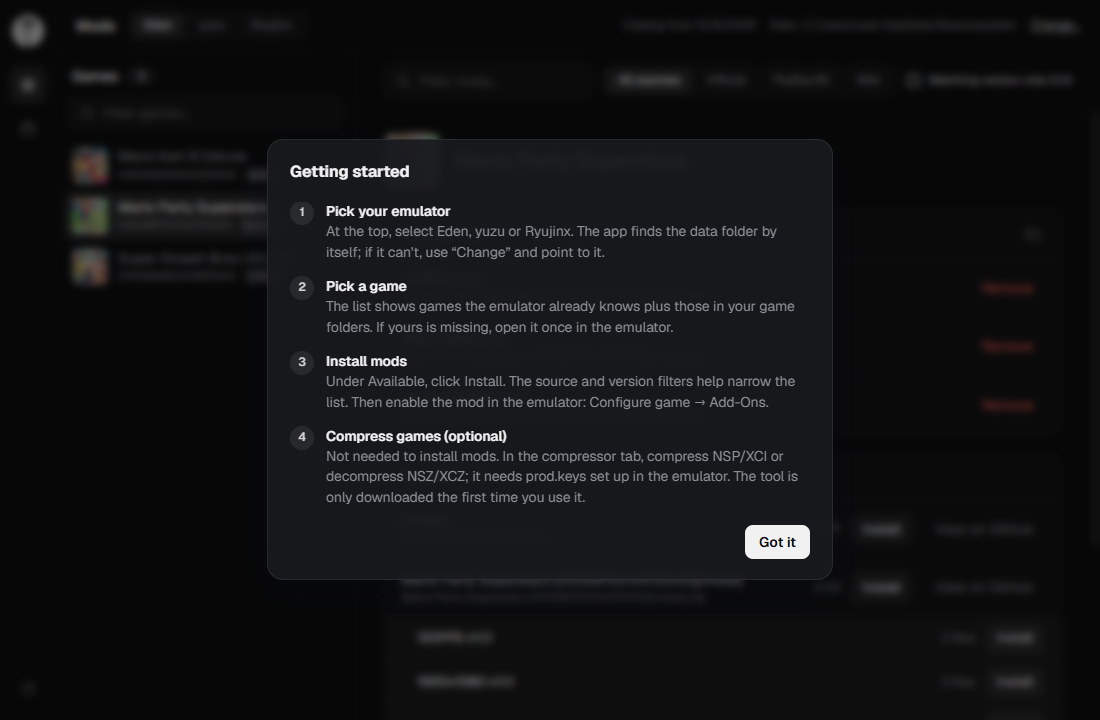
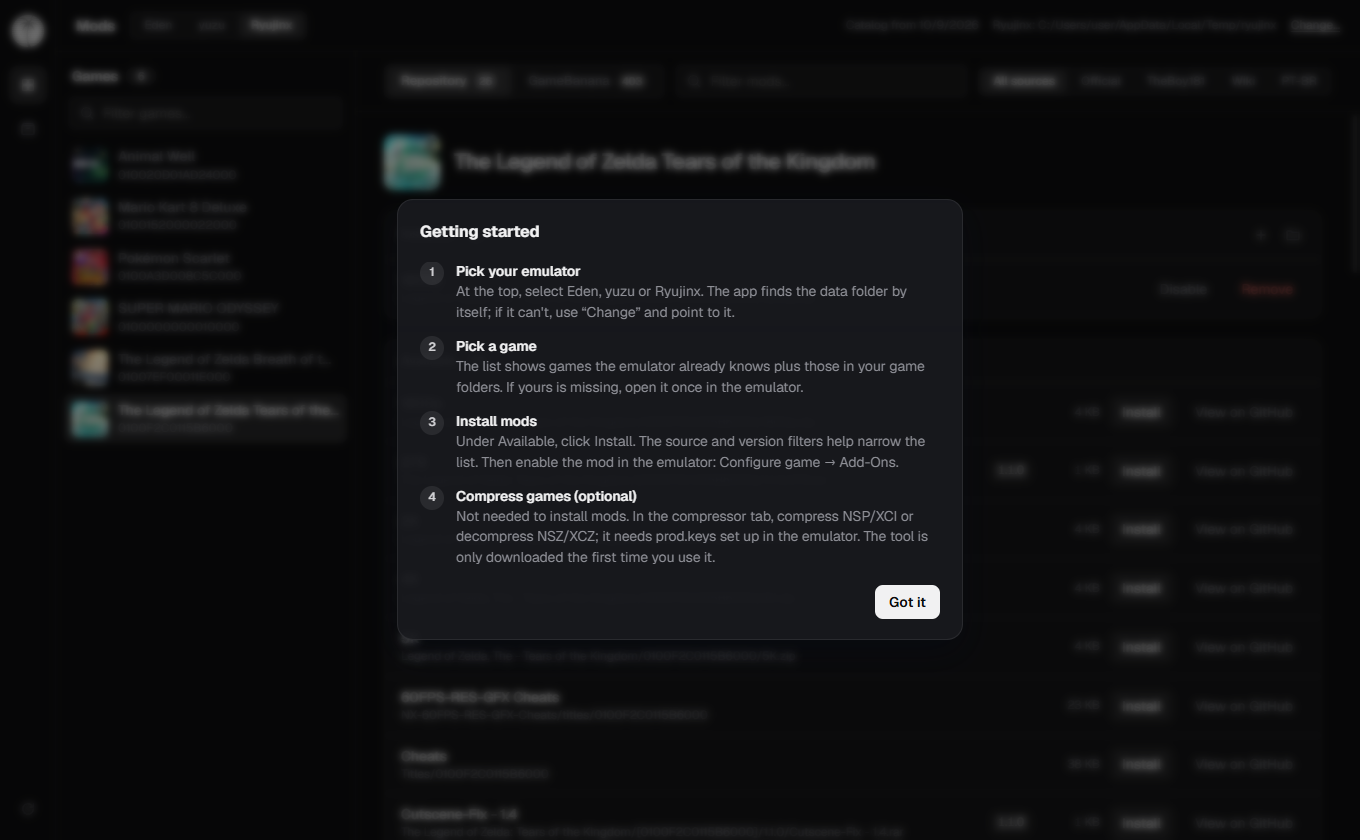
docs: refresh screenshots for 0.3.0 and add the GameBanana ones

diff --git a/AGENTS.md b/AGENTS.md
@@ -47,6 +47,7 @@ Run `npm run check` and `cargo test` after code changes. Shell is bash on Window
 - Code comments are in Portuguese; the README and `AGENTS.md` are in English.
 - **`Dir::Cache` is not a private folder.** On Windows it is `%LOCALAPPDATA%\<identifier>`, which also holds the WebView2 profile (`EBWebView`, in use while the app runs). Delete only what the app writes there (`catalog.json`, `covers/`), as `prefs.rs` does; never `remove_dir_all` the whole directory.
 - **UI preferences** (`lang`, `mica`, `autoUpdate`, `guideSeen`) live in `localStorage`, not in `Settings`. The app icon at the top of the rail opens a native `popover` menu (Settings, Guide, Check for updates); Settings is a `<dialog>`.
+- **Screenshots and README follow the UI.** Any change that alters what a screen looks like (layout, new tab or dialog, copy, window size) must refresh the affected `docs/screenshots/*.png` and the README text in the same PR. Capture at the default window size (1360x840), in English, with the user name masked as `user`, via the WebView2 CDP route (see Testing notes); uninstall anything installed for the shot and clear the scratch data afterwards.
 
 ## Portable mode (Windows)
 

diff --git a/README.md b/README.md
@@ -18,7 +18,15 @@ Optional built-in NSZ compressor. Windows, Linux and macOS.
 ## Screenshots
 
 <p align="center">
-  <img src="docs/screenshots/mods.png" alt="Installed and available mods for a game" width="720" />
+  <img src="docs/screenshots/mods.png" alt="Installed and available repository mods for a game" width="720" />
+</p>
+
+<p align="center">
+  <img src="docs/screenshots/gamebanana.png" alt="GameBanana tab with third-party content notice and mod cards" width="720" />
+</p>
+
+<p align="center">
+  <img src="docs/screenshots/gamebanana-popup.png" alt="GameBanana mod details popup" width="720" />
 </p>
 
 <table>
